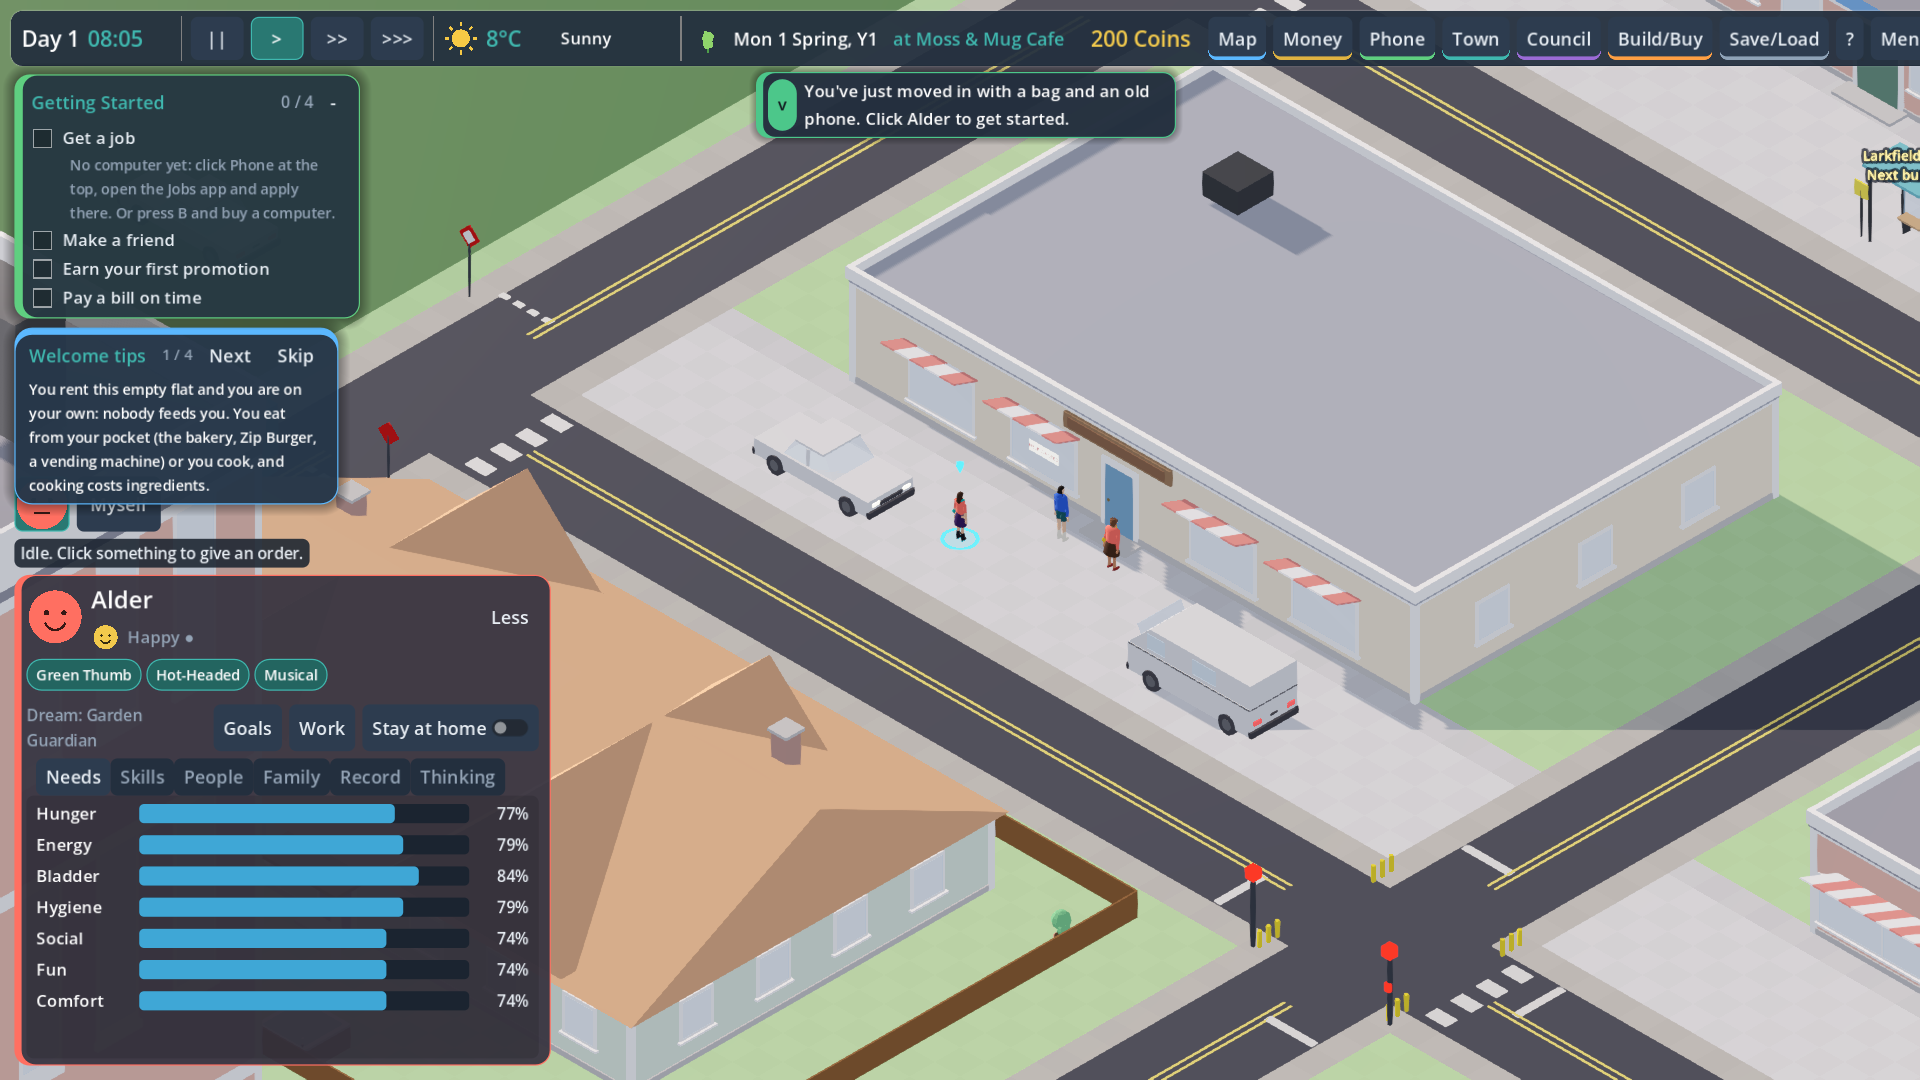
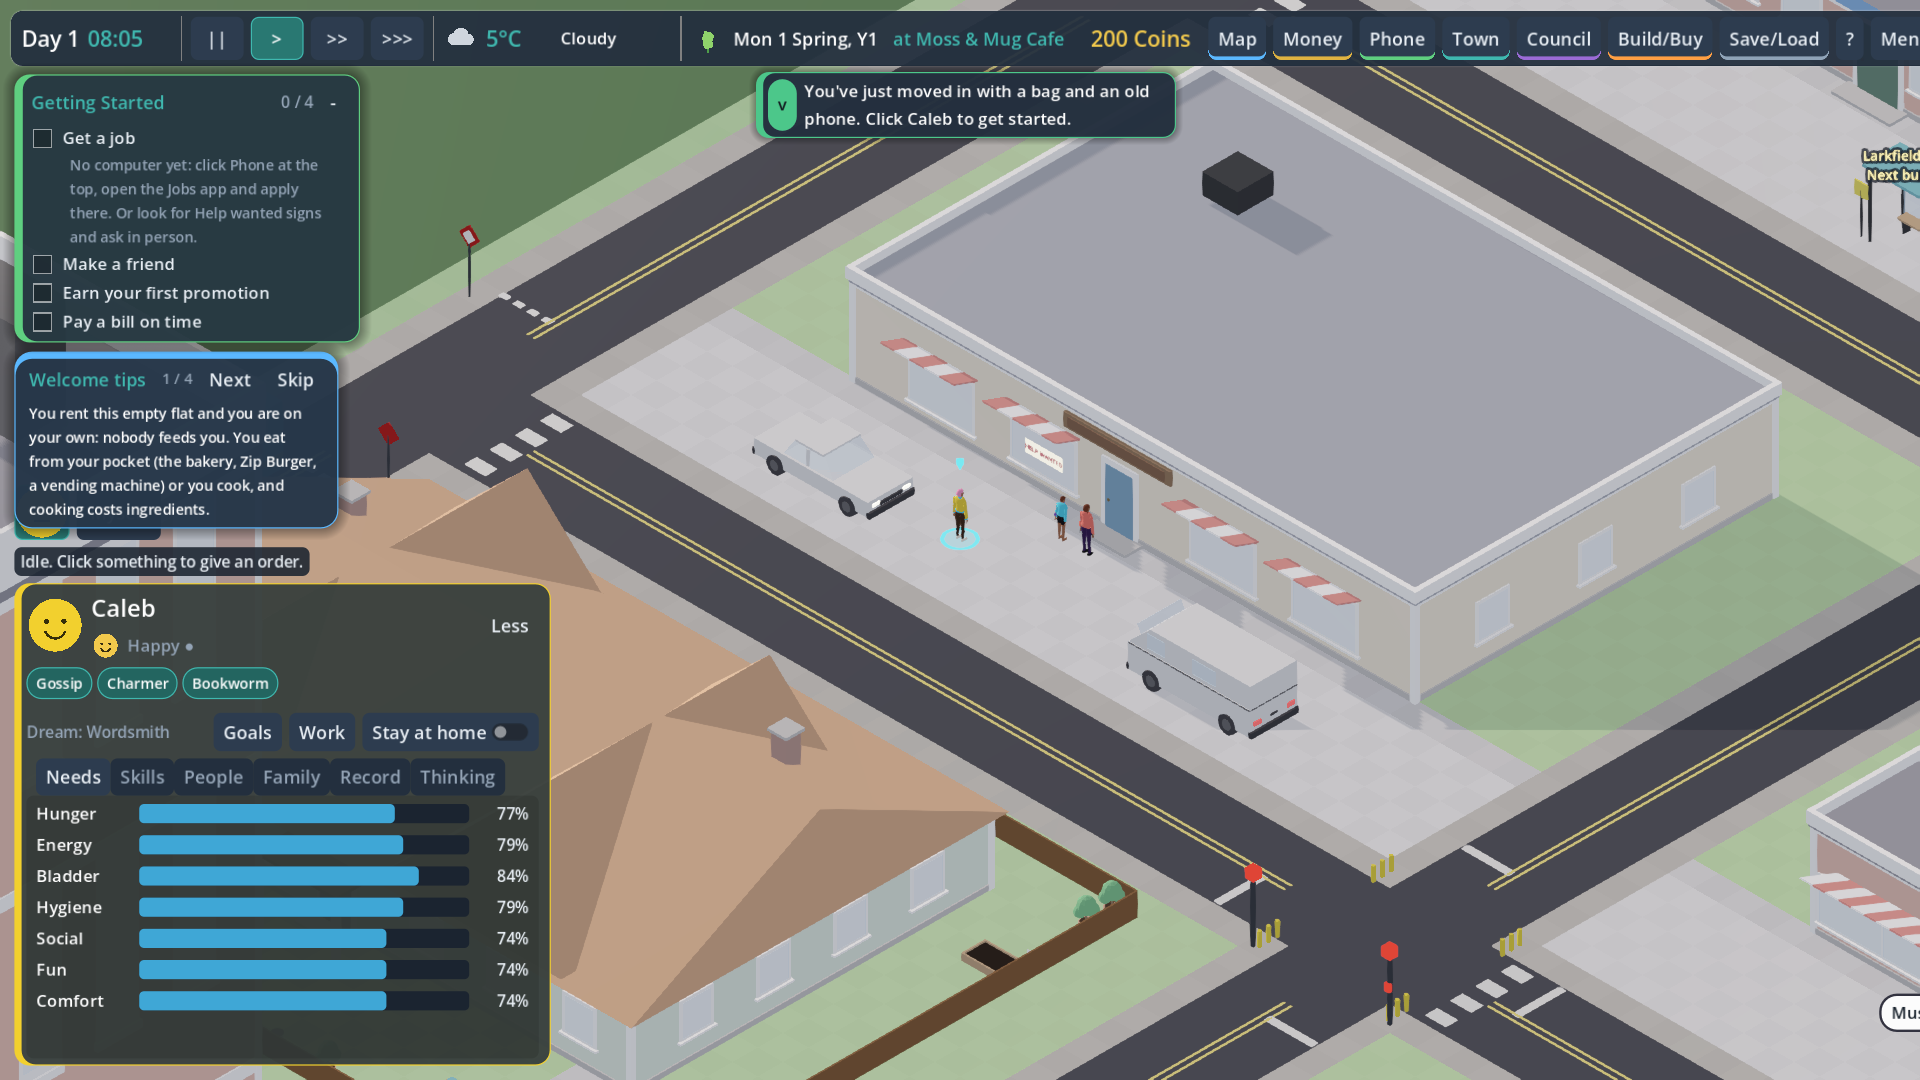
51: bigger lit Help wanted card; Getting Started mentions asking in person

diff --git a/coord/messages/2026-10-24T2320-builder-51-note-done.md b/coord/messages/2026-10-24T2320-builder-51-note-done.md
@@ -1,0 +1,8 @@
+from: builder
+to: reviewer
+type: update
+re: 2026-10-24T1200-reviewer-51-help-wanted-note.md
+status: done
+
+- The card is bigger (about the window's width), bright paper with red lettering and a red border, on the glass at eye height, and unshaded so it stays lit at night. Shots: coord/shots/ui51/help_wanted.png and help_wanted_night.png.
+- The Getting Started hint now ends "Or look for Help wanted signs and ask in person." (I dropped the "press B and buy a computer" half to keep it two lines.)
